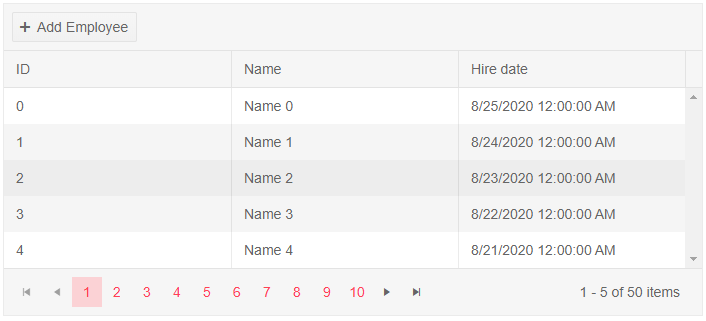
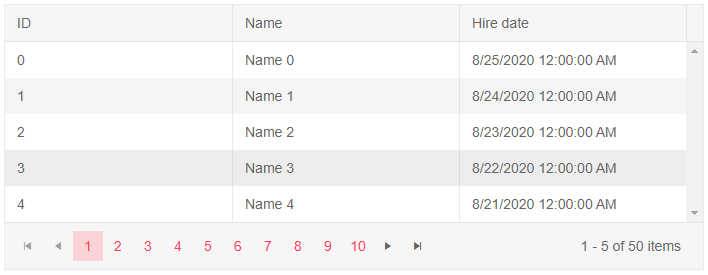
chore(grid): improvements to the visible column article

diff --git a/components/grid/columns/visible.md b/components/grid/columns/visible.md
@@ -16,6 +16,7 @@ In this article:
 * [Basics](#basics)
 * [Notes](#notes)
 * [Examples](#examples)
+    * [Toggle The Visibility Of A Column On Button Click](#toggle-the-visibility-of-a-column-on-button-click)
     * [Hidden Grid Column With Template](#hidden-grid-column-with-template)
     * [Hide A Grid Column Based On A Condition](#hide-a-grid-column-based-on-a-condition)
 
@@ -76,6 +77,68 @@ Non-visible columns (`Visible="false"`) will have the following behavior:
 
 ## Examples
 
+### Toggle The Visibility Of A Column On Button
+
+
+
+````CSHTML
+@* Toggling the visibily of a column keeps its original order in the Grid. *@
+
+<div>
+    <TelerikButton OnClick="@(() => isVisible = !isVisible)">Toggle the visibility of the Hire Date column</TelerikButton>
+</div>
+
+<br />
+
+<TelerikGrid Data=@MyData
+             Pageable="true"
+             PageSize="5"
+             Width="700px">
+    <GridColumns>
+        <GridColumn Field=@nameof(SampleData.ID) Title="ID" />
+        <GridColumn Field=@nameof(SampleData.Name) Title="Name" />
+        <GridColumn Field=@nameof(SampleData.HireDate) Title="Hire Date" Visible="@isVisible" />
+        <GridColumn Field=@nameof(SampleData.Salary) Title="Salary" />
+    </GridColumns>
+</TelerikGrid>
+
+@code {
+    public bool isVisible { get; set; } = true;
+
+    // in a real case, keep the models in dedicated locations, this is just an easy to copy and see example
+    public class SampleData
+    {
+        public int ID { get; set; }
+        public string Name { get; set; }
+        public DateTime HireDate { get; set; }
+        public int Salary { get; set; }
+    }
+
+    public List<SampleData> MyData { get; set; }
+
+    protected override void OnInitialized()
+    {
+        MyData = new List<SampleData>();
+
+        for (int i = 0; i < 50; i++)
+        {
+            MyData.Add(new SampleData()
+            {
+                ID = i,
+                Name = "Name " + i.ToString(),
+                Salary = (i + 1) * 100,
+                HireDate = DateTime.Today.AddDays(-i)
+            });
+        }
+    }
+}
+
+````
+
+>caption The result from the code snippet above
+
+![toggle the visibility of a column gif](images/visible-parameter-toggle-column-visibility-example.gif)
+
 ### Hidden Grid Column With Template
 
 ````CSHTML
@@ -86,9 +149,6 @@ Non-visible columns (`Visible="false"`) will have the following behavior:
              Pageable="true"
              PageSize="5"
              Width="700px">
-    <GridToolBar>
-        <GridCommandButton Command="Add" Icon="add">Add Employee</GridCommandButton>
-    </GridToolBar>
     <GridColumns>
         <GridColumn Field=@nameof(SampleData.ID) Title="ID" />
         <GridColumn Field=@nameof(SampleData.Name) Title="Name" />
@@ -138,6 +198,8 @@ Non-visible columns (`Visible="false"`) will have the following behavior:
 
 ![visible parameter column with template screenshot](images/visible-parameter-column-with-template-example.png)
 
+
+
 ### Hide A Grid Column Based On A Condition
 
 ````CSHTML
@@ -148,9 +210,6 @@ Non-visible columns (`Visible="false"`) will have the following behavior:
              Pageable="true"
              PageSize="5"
              Width="700px">
-    <GridToolBar>
-        <GridCommandButton Command="Add" Icon="add">Add Employee</GridCommandButton>
-    </GridToolBar>
     <GridColumns>
         <GridColumn Field=@nameof(SampleData.ID) Title="ID" />
         <GridColumn Field=@nameof(SampleData.Name) Title="Name" Visible="@((MyData.Any(x => x.Name.Contains("Name 2"))) ? false : true)" />
